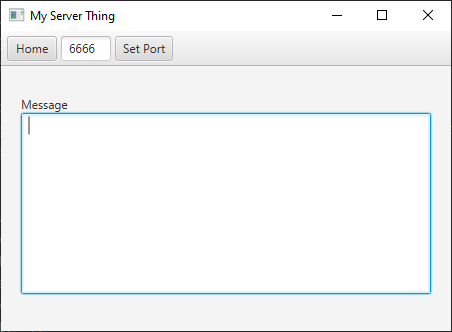
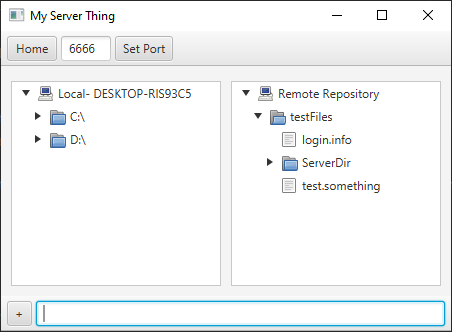
File Preview update
Added a simple file system preview implementation, including a load-as-needed system for directories.

diff --git a/src/main/java/main.java b/src/main/java/main.java
@@ -1,3 +1,4 @@
+import FileBrowser.FileTreeItem;
 import javafx.application.Application;
 import javafx.geometry.Insets;
 import javafx.geometry.Pos;
@@ -8,11 +9,13 @@ import javafx.scene.image.ImageView;
 import javafx.scene.input.KeyCode;
 import javafx.scene.layout.*;
 import javafx.scene.text.Text;
-import javafx.stage.DirectoryChooser;
 import javafx.stage.FileChooser;
 import javafx.stage.Stage;
-
 import java.io.File;
+import java.net.InetAddress;
+import java.net.UnknownHostException;
+import java.nio.file.FileSystems;
+import java.nio.file.Path;
 import java.util.List;
 import java.util.Objects;
 import java.util.function.UnaryOperator;
@@ -47,15 +50,6 @@ public class main extends Application {
             imOff.setFitHeight(10);
             serverStatus.setGraphic(imOff);
         }
-    }
-
-    public TreeItem<String> getNodesForDirectory(File directory) { //Returns a TreeItem representation of the specified directory
-        TreeItem<String> root = new TreeItem<String>(directory.getName());
-        for(File f : Objects.requireNonNull(directory.listFiles())) {
-            if (f.isDirectory()) root.getChildren().add(getNodesForDirectory(f));
-            else root.getChildren().add(new TreeItem<String>(f.getName()));
-        }
-        return root;
     }
 
     @Override
@@ -269,12 +263,24 @@ public class main extends Application {
 
             //---------------------------------------------------------------
 
-            TreeView<String> localView = new TreeView<String>();
-            localView.setRoot(getNodesForDirectory(new File("testFiles/")));
+            Image compImg = new Image(Objects.requireNonNull(ClassLoader.getSystemResourceAsStream("computer.png")));
+
+            String hostName = "Local";
+            try { hostName += "- " + InetAddress.getLocalHost().getHostName(); } catch (UnknownHostException ignored) {}
+            TreeItem<String> rootNode = new TreeItem<>(hostName, new ImageView(compImg));
+
+            for (Path name : FileSystems.getDefault().getRootDirectories()) rootNode.getChildren().add(new FileTreeItem(name, true));
+            rootNode.setExpanded(true);
+
+            TreeView<String> localView = new TreeView<>(rootNode);
             HBox.setHgrow(localView, Priority.SOMETIMES);
 
-            TreeView<String> remoteView = new TreeView<String>();
-            remoteView.setRoot(getNodesForDirectory(new File("testFiles/")));
+            TreeItem<String> remoteRoot = new TreeItem<>("Remote Repository", new ImageView(compImg));
+            for (Path x : FileSystems.getDefault().getPath("testFiles")) remoteRoot.getChildren().add(new FileTreeItem(x, true));
+            remoteRoot.setExpanded(true);
+
+            TreeView<String> remoteView = new TreeView<>(remoteRoot);
+
             HBox.setHgrow(remoteView, Priority.SOMETIMES);
 
             HBox content = new HBox(localView, remoteView);
@@ -365,8 +371,6 @@ public class main extends Application {
             if (client != null) client.end();
         });
     }
-
-    public static void main(String[] args) {launch();} //launch the main JavaFX function
 }
 
 /*

diff --git a/src/main/java/FileBrowser/FileTreeItem.java b/src/main/java/FileBrowser/FileTreeItem.java
@@ -1,0 +1,68 @@
+package FileBrowser;
+
+import javafx.event.EventHandler;
+import javafx.scene.control.TreeItem;
+import javafx.scene.image.Image;
+import javafx.scene.image.ImageView;
+import java.io.File;
+import java.nio.file.*;
+import java.util.Objects;
+
+public class FileTreeItem extends TreeItem<String> {
+    public static Image folderCollapseImage = new Image(Objects.requireNonNull(ClassLoader.getSystemResourceAsStream("folder_closed.png")));
+    public static Image folderOpenImage = new Image(Objects.requireNonNull(ClassLoader.getSystemResourceAsStream("folder_open.png")));
+    public static Image fileImage = new Image(Objects.requireNonNull(ClassLoader.getSystemResourceAsStream("file_generic.png")));
+
+    private final String fullPath;
+    private final boolean isDirectory;
+    private final Path myPath;
+    private boolean loaded = false;
+
+    public String getFullPath() { return fullPath; }
+
+    public boolean isDirectory() { return isDirectory; }
+
+    @SuppressWarnings({"unchecked", "rawtypes", "all"})
+    public FileTreeItem(Path file, boolean root) {
+        super(file.toFile().getAbsolutePath());
+
+        myPath = file;
+
+        this.fullPath = file.toString();
+        if (!fullPath.endsWith(File.separator)) {
+            String value = file.toString();
+            int index = value.lastIndexOf(File.separator);
+            if (index > 0) this.setValue(value.substring(index + 1));
+            else this.setValue(value);
+        }
+
+        if (this.isDirectory = Files.isDirectory(file)) {
+            this.setGraphic(new ImageView(folderCollapseImage));
+
+            this.addEventHandler(TreeItem.branchExpandedEvent(), (EventHandler) event -> {
+                FileTreeItem source = (FileTreeItem) event.getSource();
+                if (source.isExpanded()) {
+                    ((ImageView) source.getGraphic()).setImage(folderOpenImage);
+
+                    for (TreeItem x : this.getChildren()) {
+                        FileTreeItem temp = (FileTreeItem) x;
+                        if (temp.isDirectory && !temp.loaded && temp.myPath.toFile().list() != null) for (String y : temp.myPath.toFile().list()) {
+                            x.getChildren().add(new FileTreeItem(Paths.get(this.fullPath + "/" + y), false));
+                            temp.loaded = true;
+                        }
+                    }
+                }
+            });
+
+            this.addEventHandler(TreeItem.branchCollapsedEvent(), (EventHandler) e -> {
+                FileTreeItem source = (FileTreeItem)e.getSource();
+                if(!source.isExpanded()) ((ImageView) source.getGraphic()).setImage(folderCollapseImage);
+            });
+
+            if (root) {
+                for (String x : file.toFile().list()) this.getChildren().add(new FileTreeItem(Paths.get(this.fullPath + "/" + x), false)); //TODO: add hidden files to folder
+                loaded = true;
+            }
+        } else this.setGraphic(new ImageView(fileImage)); //TODO: set images for different filetypes
+    }
+}
